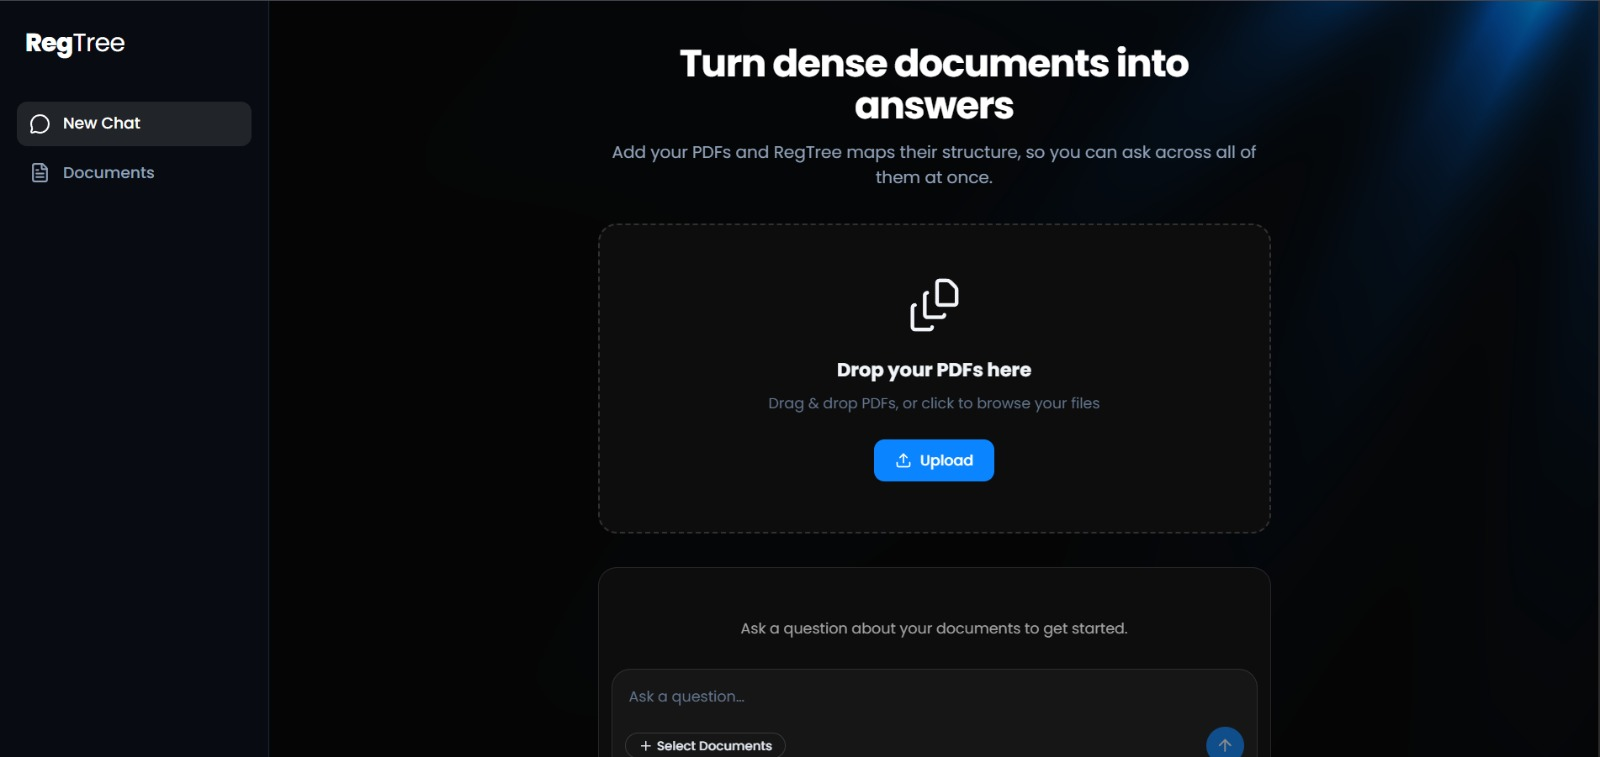
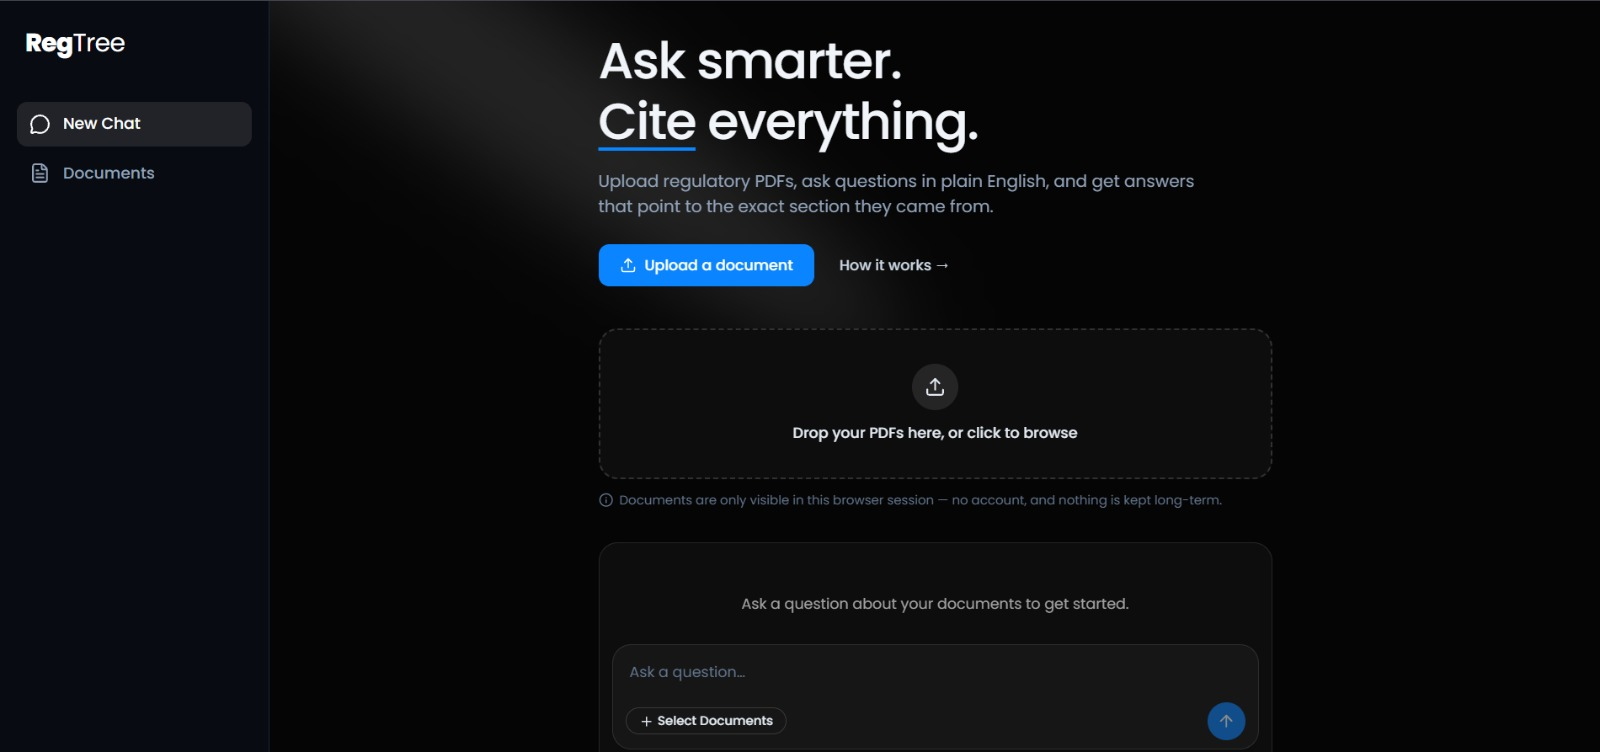
docs: update README and home screenshot
Restore the explanation of the vectorless approach, explain the Spark
extraction plateau, correct the heavy-PDF benchmark description, note the
tree-building retries and fallback, drop the redundant fastmcp install
step, fix formatting, and update the Home screenshot for the redesign.

diff --git a/README.md b/README.md
@@ -31,7 +31,9 @@ RegTree lets you upload regulatory/financial PDFs, builds a hierarchical, human-
 
 ## Why "vectorless" RAG
 
-This makes it a better fit for precision-critical domains — legal, regulatory, financial, where knowing *exactly* which clause or section an answer came from matters more than raw speed, and where a plausible-but-unsourced answer isn't good enough. The tradeoff: it's slower per query than vector search and better suited to a focused set of long, structured documents than to a huge corpus of short ones , so it's the right tool when traceability is the priority, not when latency or massive scale is.
+Most RAG systems split documents into chunks and retrieve whichever chunks are closest to the question by embedding similarity. That's fast, but it has no understanding of how a document is structured, and there's no traceable reason why a given passage was chosen. RegTree instead builds a hierarchical outline of each document (section titles, summaries, and page ranges) and answers in two steps: an LLM reads the outline and picks the relevant section(s), then a second call answers using only the text of those sections.
+
+This makes it a better fit for precision-critical domains — legal, regulatory, financial, where knowing *exactly* which clause or section an answer came from matters more than raw speed, and where a plausible-but-unsourced answer isn't good enough. The tradeoff: it's slower per query than vector search and better suited to a focused set of long, structured documents than to a huge corpus of short ones, so it's the right tool when traceability is the priority, not when latency or massive scale is.
 
 ## Architecture
 
@@ -53,7 +55,7 @@ flowchart TD
 
 ![Sequential vs parallel extraction on light PDFs — Spark overhead makes it slower](docs/screenshots/pyspark_benchmark.jpg)
 
-**Heavy PDFs (200–750 pages) — parallel wins, but plateaus at ~2.2×.** When I switched to large documents the speedup climbs with file count and then flattens, well short of the 16 cores I have (below: duplicating a 193-page PDF; single-file extraction = 8.4s):
+**Heavy PDFs (~200 pages) — parallel wins, but plateaus at ~2.2×.** When I switched to large documents the speedup climbs with file count and then flattens, well short of the 16 cores I have (below: duplicating a 193-page PDF; single-file extraction = 8.4s):
 
 | Heavy files (N) | Sequential | Parallel | Speedup |
 |---:|---:|---:|---:|
@@ -63,17 +65,19 @@ flowchart TD
 | 16 | 134.6s | 60.8s  | 2.22× |
 | 32 | 269.3s | 119.3s | 2.26× |
 
+The plateau comes from how results come back: the extraction itself runs in parallel, but every worker's text is collected back through a single driver process (`.collect()`), and that step doesn't parallelize — so it caps the speedup well below the core count. Removing it would mean workers writing directly to shared storage, which is already on the [Roadmap](#roadmap).
 
 I deliberately left the LLM calls out of the parallelism, since those are rate-limited on free tiers and parallelizing them would burn quota faster, not help.
+
 ## Tech stack
 
 | Layer | Tools |
 |---|---|
 | Distributed ingestion | PySpark (local mode), pdfplumber |
-| Tree building | Nemotron 3 Super via OpenRouter (free tier) |
-| Retrieval / Q&A | Groq — Llama 3.3 70B Versatile (free tier) |
+| Tree building | Nemotron 3 Super via OpenRouter (free tier); retries empty/invalid replies and falls back to a second free model |
+| Retrieval / Q&A | GPT-OSS 120B (via Groq, free tier) |
 | Backend API | FastAPI, session-cookie scoping (no accounts/login) |
-| Frontend | React, TypeScript, Tailwind CSS, React Bits, shadcn (Base UI) |
+| Frontend | React, TypeScript, Tailwind CSS, Aceternity UI, shadcn (Base UI) |
 | MCP layer | FastMCP — exposes the same pipeline as tools for Claude Desktop |
 | Storage | Local filesystem, JSON-based (see [Roadmap](#roadmap)) |
 
@@ -116,10 +120,7 @@ npm run dev
 ```
 
 ### MCP server (optional — Claude Desktop integration)
-```powershell
-python -m pip install fastmcp==3.3.1
-```
-Add to Claude Desktop's `claude_desktop_config.json`:
+`fastmcp` is already installed by the backend's `requirements.txt`. Add to Claude Desktop's `claude_desktop_config.json`:
 ```json
 {
   "mcpServers": {
